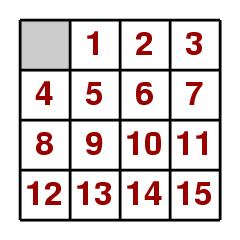
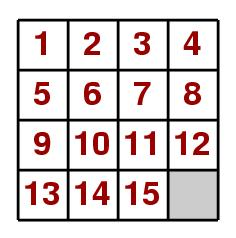
check if the puzzle is solvable

Changed region(s): [[0.0593, 0.0588, 0.9492, 0.9412]]

diff --git a/main.py b/main.py
@@ -10,10 +10,13 @@ class PuzzleSolver:
 
     def print_solution(self):
         print('Solution:')
-        for p in self._strategy.solution:
-            print(p)
+        for s in self._strategy.solution:
+            print(s)
 
     def run(self):
+        if not self._strategy.start.is_solvable():
+            raise RuntimeError('This puzzle is not solvable')
+
         self._strategy.do_algorithm()
 
 
@@ -139,17 +142,18 @@ class Puzzle:
     def _generate_end_position(self):
         """
         Example end position in 4x4 puzzle
-        [[0, 1, 2, 3], [4, 5, 6, 7], [8, 9, 10, 11], [12, 13, 14, 15]]
+        [[1, 2, 3, 4], [5, 6, 7, 8], [9, 10, 11, 12], [13, 14, 15, 0]]
         """
         end_position = []
         new_row = []
 
-        for i in range(self.PUZZLE_NUM_ROWS * self.PUZZLE_NUM_COLUMNS):
+        for i in range(1, self.PUZZLE_NUM_ROWS * self.PUZZLE_NUM_COLUMNS + 1):
             new_row.append(i)
             if len(new_row) == self.PUZZLE_NUM_COLUMNS:
                 end_position.append(new_row)
                 new_row = []
 
+        end_position[-1][-1] = 0
         return end_position
 
     def _swap(self, x1, y1, x2, y2):
@@ -160,6 +164,18 @@ class Puzzle:
         puzzle_copy[x1][y1], puzzle_copy[x2][y2] = puzzle_copy[x2][y2], puzzle_copy[x1][y1]
 
         return puzzle_copy
+
+    @staticmethod
+    def _is_odd(num):
+        return num % 2 != 0
+
+    @staticmethod
+    def _is_even(num):
+        return num % 2 == 0
+
+    def _get_blank_space_row_counting_from_bottom(self):
+        zero_row, _ = self._get_coordinates(0)  # blank space
+        return self.PUZZLE_NUM_ROWS - zero_row
 
     def _get_coordinates(self, tile, position=None):
         """
@@ -174,6 +190,17 @@ class Puzzle:
                     return i, j
 
         return RuntimeError('Invalid tile value')
+
+    def _get_inversions_count(self):
+        inv_count = 0
+        puzzle_list = [number for row in self.position for number in row if number != 0]
+
+        for i in range(len(puzzle_list)):
+            for j in range(i + 1, len(puzzle_list)):
+                if puzzle_list[i] > puzzle_list[j]:
+                    inv_count += 1
+
+        return inv_count
 
     def get_moves(self):
         """
@@ -222,9 +249,30 @@ class Puzzle:
 
         return distance
 
+    def is_solvable(self):
+        # 1. If N is odd, then puzzle instance is solvable if number of inversions is even in the input state.
+        # 2. If N is even, puzzle instance is solvable if
+        #    - the blank is on an even row counting from the bottom (second-last, fourth-last, etc.)
+        #      and number of inversions is odd.
+        #    - the blank is on an odd row counting from the bottom (last, third-last, fifth-last, etc.)
+        #    and number of inversions is even.
+        # 3. For all other cases, the puzzle instance is not solvable.
+
+        inversions_count = self._get_inversions_count()
+        blank_position = self._get_blank_space_row_counting_from_bottom()
+
+        if self._is_odd(self.PUZZLE_NUM_ROWS) and self._is_even(inversions_count):
+            return True
+        elif self._is_even(self.PUZZLE_NUM_ROWS) and self._is_even(blank_position) and self._is_odd(inversions_count):
+            return True
+        elif self._is_even(self.PUZZLE_NUM_ROWS) and self._is_odd(blank_position) and self._is_even(inversions_count):
+            return True
+        else:
+            return False
+
 
 if __name__ == '__main__':
-    puzzle = Puzzle([[4, 1, 2, 3], [5, 6, 7, 11], [8, 9, 10, 15], [12, 13, 14, 0]])
+    puzzle = Puzzle([[1, 2, 3, 4], [5, 6, 7, 8], [0, 10, 11, 12], [9, 13, 14, 15]])
 
     for strategy in [BreadthFirst, AStar]:
         p = PuzzleSolver(strategy(puzzle))

diff --git a/tests.py b/tests.py
@@ -2,12 +2,12 @@ from main import PuzzleSolver, AStar, BreadthFirst, Puzzle
 
 
 def test_generate_end_position():
-    puzzle_4x4 = Puzzle([[1, 2, 3, 4], [5, 6, 7, 8], [9, 10, 11, 12], [13, 14, 15, 0]])
+    puzzle_4x4 = Puzzle([[0, 2, 3, 4], [5, 6, 7, 8], [9, 10, 11, 12], [13, 14, 15, 1]])
 
-    assert puzzle_4x4.PUZZLE_END_POSITION == [[0, 1, 2, 3], [4, 5, 6, 7], [8, 9, 10, 11], [12, 13, 14, 15]], '4x4'
+    assert puzzle_4x4.PUZZLE_END_POSITION == [[1, 2, 3, 4], [5, 6, 7, 8], [9, 10, 11, 12], [13, 14, 15, 0]], '4x4'
 
-    puzzle_3x3 = Puzzle([[0, 2, 1], [3, 5, 4], [6, 7, 8], [9, 10, 11]])
-    assert puzzle_3x3.PUZZLE_END_POSITION == [[0, 1, 2], [3, 4, 5], [6, 7, 8], [9, 10, 11]], '3x3'
+    puzzle_3x3 = Puzzle([[0, 2, 1], [3, 5, 4], [6, 7, 8]])
+    assert puzzle_3x3.PUZZLE_END_POSITION == [[1, 2, 3], [4, 5, 6], [7, 8, 0]], '3x3'
 
 
 def test_swap():
@@ -40,28 +40,55 @@ def test_all_possible_moves():
 
 
 def test_heuristic_misplaced():
-    puzzle = Puzzle([[1, 2, 0, 3], [4, 5, 6, 7], [8, 9, 10, 11], [12, 13, 14, 15]])
+    puzzle = Puzzle([[1, 2, 3, 4], [5, 6, 7, 8], [9, 10, 11, 12], [13, 14, 15, 0]])
     misplaced = puzzle.heuristic_misplaced()
 
-    assert misplaced == 3
+    assert misplaced == 0
+
+    puzzle = Puzzle([[1, 2, 4, 3], [5, 6, 8, 7], [9, 10, 12, 11], [13, 14, 15, 0]])
+    misplaced = puzzle.heuristic_misplaced()
+    assert misplaced == 6
 
 
 def test_heuristic_manhattan_distance():
     puzzle = Puzzle([[1, 2, 6, 3], [4, 9, 5, 7], [8, 13, 11, 15], [12, 14, 0, 10]])
     distance = puzzle.heuristic_manhattan_distance()
 
-    assert distance == 16
+    assert distance == 28
+
+
+def test_unsolvable_puzzle():
+    puzzle = Puzzle([[1, 8, 2], [0, 4, 3], [7, 6, 5]])
+    assert puzzle._get_inversions_count() == 10
+    assert puzzle.is_solvable()
+
+    puzzle = Puzzle([[13, 2, 10, 3], [1, 12, 8, 4], [5, 0, 9, 6], [15, 14, 11, 7]])
+    assert puzzle._get_inversions_count() == 41
+    assert puzzle.is_solvable()
+
+    puzzle = Puzzle([[6, 13, 7, 10], [8, 9, 11, 0], [15, 2, 12, 5], [14, 3, 1, 4]])
+    assert puzzle._get_inversions_count() == 62
+    assert puzzle.is_solvable()
+
+    puzzle = Puzzle([[3, 9, 1, 15], [14, 11, 4, 6], [13, 0, 10, 12], [2, 7, 8, 5]])
+    assert puzzle._get_inversions_count() == 56
+    assert not puzzle.is_solvable()
+
+    puzzle = Puzzle([[1, 2, 3, 7], [12, 8, 15, 4], [13, 10, 11, 5], [9, 6, 14, 0]])
+    assert puzzle._get_inversions_count() == 33
+    assert not puzzle.is_solvable()
 
 
 def test_performance():
-    puzzle_start = Puzzle([[4, 1, 2, 3], [5, 6, 7, 0], [8, 9, 10, 11], [12, 13, 14, 15]])
+    puzzle_start = Puzzle([[1, 2, 3, 4], [5, 6, 7, 8], [0, 10, 11, 12], [9, 13, 14, 15]])
 
     s2 = PuzzleSolver(BreadthFirst(puzzle_start))
     s2.run()
-    assert s2._strategy.num_expanded_nodes == 35
+    assert s2._strategy.num_expanded_nodes == 56
 
     s1 = PuzzleSolver(AStar(puzzle_start))
     s1.run()
+    s1.print_solution()
     assert s1._strategy.num_expanded_nodes == 4
 
 
@@ -72,5 +99,6 @@ if __name__ == "__main__":
     test_all_possible_moves()
     test_heuristic_misplaced()
     test_heuristic_manhattan_distance()
+    test_unsolvable_puzzle()
     test_performance()
     print("Everything passed")

diff --git a/README.md b/README.md
@@ -14,6 +14,10 @@ heuristics.
 
 Commonly used heuristics for this problem are:
 
-H1: counting the number of misplaced tiles, and
-H2: finding the sum of the Manhattan distances between each block
+* H1: counting the number of misplaced tiles, and
+
+* H2: finding the sum of the Manhattan distances between each block
       and its position in the goal configuration
+      
+
+The code also validates if the puzzle is solvable
